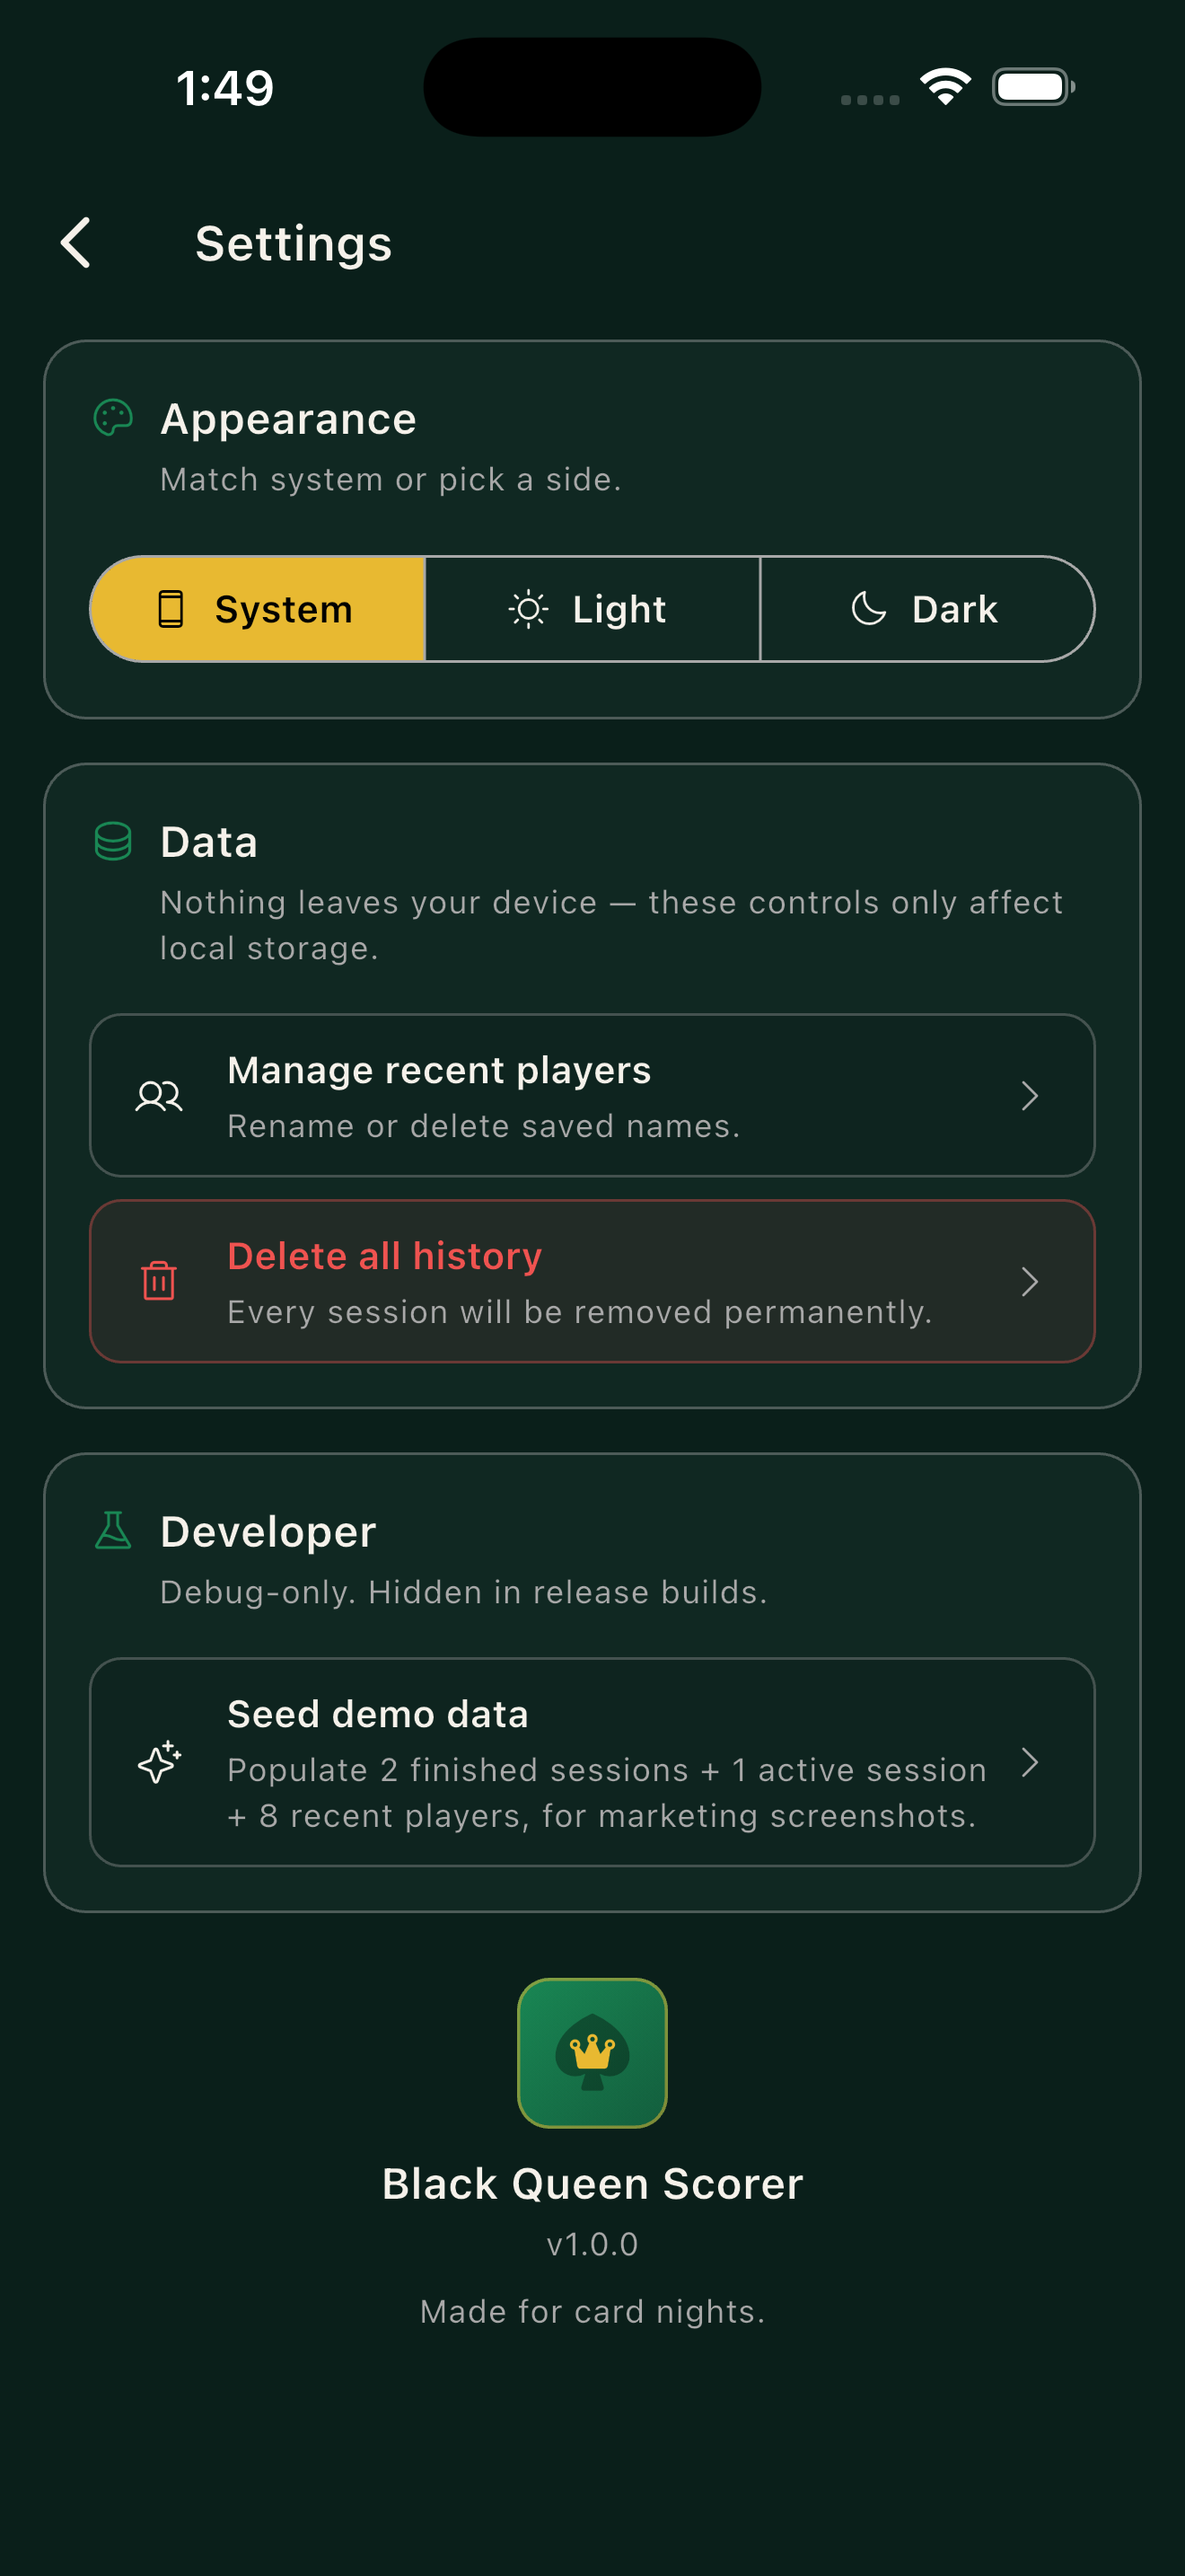
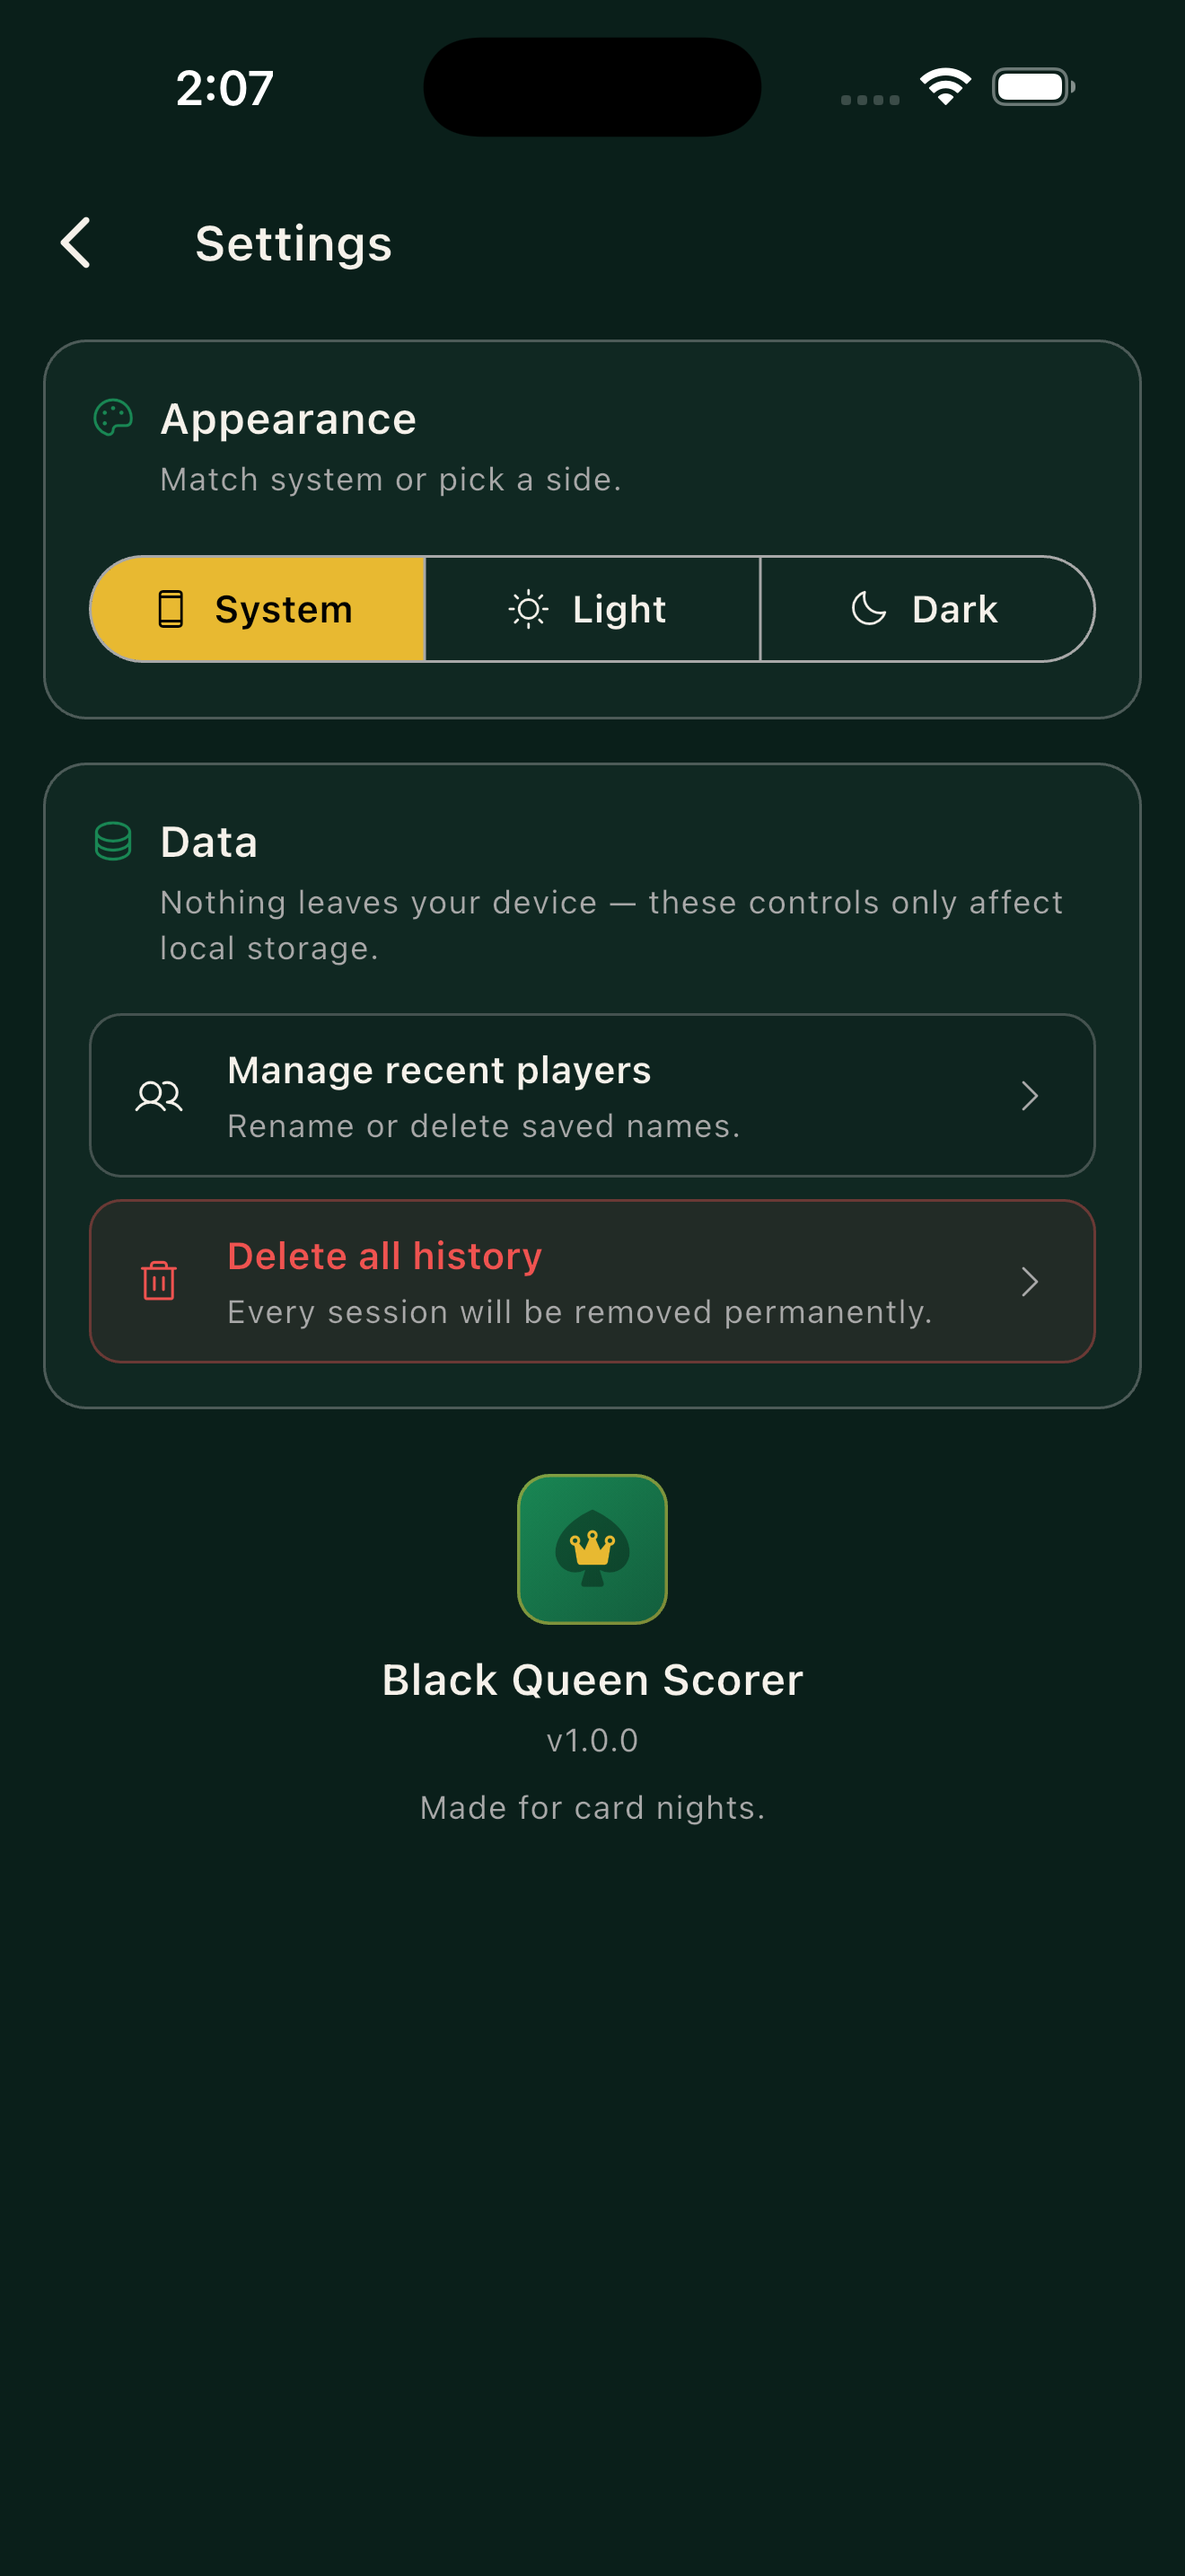
Add marketing-framed screenshots + rebuild Settings clean
- tool/frame_screenshots_test.dart: programmatic framer that reads raw
  simulator PNGs, paints them onto an emerald-gradient canvas with a
  two-line gold/white caption above and a wordmark footer. Loads the
  macOS system TTF (SFNS.ttf) so captions render outside the Ahem-font
  default of flutter_test.

- lib/features/settings/settings_screen.dart: the Developer card's
  visibility check now also respects a MARKETING dart-define flag so
  we can produce a clean Settings screenshot from a debug simulator
  build (`flutter build ios --simulator --debug --dart-define=MARKETING=true`).

- store/screenshots/ios/6.9inch/raw/06_settings.png: swapped for the
  clean marketing-flag build (no Developer card).

- store/screenshots/ios/6.9inch/framed/*.png: six 1320×2868 marketing
  versions with captions:
  01 "Fast, offline / card-night scorer"
  02 "Live leaderboard, / zero spreadsheet"
  03 "Bidder, team, bid, / done — in 10 seconds"
  04 "Finish with a / podium and a share card"
  05 "See who really / owns the table"
  06 "No account. / No ads. No tracking."

diff --git a/tool/frame_screenshots_test.dart b/tool/frame_screenshots_test.dart
@@ -1,0 +1,253 @@
+// Paints branded marketing versions of the raw simulator screenshots:
+// emerald-gradient background, gold caption above, rounded-corner device
+// image centered, small footer wordmark. 1320x2868 output for App Store 6.9".
+//
+// Run with:
+//   flutter test tool/frame_screenshots_test.dart
+//
+// Inputs  : store/screenshots/ios/6.9inch/raw/<NN>_<slug>.png
+// Outputs : store/screenshots/ios/6.9inch/framed/<NN>_<slug>.png
+
+import 'dart:io';
+import 'dart:typed_data';
+import 'dart:ui' as ui;
+
+import 'package:flutter/material.dart';
+import 'package:flutter/services.dart' show FontLoader;
+import 'package:flutter_test/flutter_test.dart';
+
+const _canvas = Size(1320, 2868);
+const _emerald = Color(0xFF0F5132);
+const _emeraldDeep = Color(0xFF0A1F1A);
+const _gold = Color(0xFFE8B931);
+
+class _Shot {
+  final String slug;
+  final String captionA;
+  final String captionB;
+  const _Shot(this.slug, this.captionA, this.captionB);
+}
+
+const _shots = <_Shot>[
+  _Shot('01_home', 'Fast, offline', 'card-night scorer'),
+  _Shot('02_scoreboard', 'Live leaderboard,', 'zero spreadsheet'),
+  _Shot('03_round_entry', 'Bidder, team, bid,', 'done — in 10 seconds'),
+  _Shot('04_summary', 'Finish with a', 'podium and a share card'),
+  _Shot('05_lifetime_stats', 'See who really', 'owns the table'),
+  _Shot('06_settings', 'No account.', 'No ads. No tracking.'),
+];
+
+Future<ui.Image> _loadPng(String path) async {
+  final bytes = await File(path).readAsBytes();
+  final codec = await ui.instantiateImageCodec(bytes);
+  final frame = await codec.getNextFrame();
+  return frame.image;
+}
+
+Future<Uint8List> _render(
+  void Function(Canvas, Size) paint,
+) async {
+  final recorder = ui.PictureRecorder();
+  final canvas = Canvas(recorder);
+  paint(canvas, _canvas);
+  final picture = recorder.endRecording();
+  final image =
+      await picture.toImage(_canvas.width.toInt(), _canvas.height.toInt());
+  final data = await image.toByteData(format: ui.ImageByteFormat.png);
+  return data!.buffer.asUint8List();
+}
+
+void _paintBackground(Canvas canvas) {
+  final rect = Offset.zero & _canvas;
+  // Emerald gradient matches the in-app brand.
+  final bg = Paint()
+    ..shader = const LinearGradient(
+      begin: Alignment.topCenter,
+      end: Alignment.bottomCenter,
+      colors: [_emerald, _emeraldDeep],
+    ).createShader(rect);
+  canvas.drawRect(rect, bg);
+
+  // Subtle gold spade silhouette in the top-right for identity.
+  final spadePaint = Paint()
+    ..color = _gold.withValues(alpha: 0.07);
+  _drawSpade(
+    canvas,
+    Offset(_canvas.width - 180, 180),
+    220,
+    spadePaint,
+  );
+}
+
+void _drawSpade(Canvas canvas, Offset c, double r, Paint paint) {
+  final p = Path();
+  p.moveTo(c.dx, c.dy - r);
+  p.cubicTo(c.dx + r * 0.85, c.dy - r * 0.45, c.dx + r * 1.02,
+      c.dy + r * 0.15, c.dx + r * 0.55, c.dy + r * 0.42);
+  p.cubicTo(c.dx + r * 0.28, c.dy + r * 0.56, c.dx + r * 0.1,
+      c.dy + r * 0.52, c.dx + r * 0.08, c.dy + r * 0.4);
+  p.cubicTo(c.dx + r * 0.15, c.dy + r * 0.72, c.dx + r * 0.22,
+      c.dy + r * 0.88, c.dx + r * 0.4, c.dy + r * 0.98);
+  p.lineTo(c.dx - r * 0.4, c.dy + r * 0.98);
+  p.cubicTo(c.dx - r * 0.22, c.dy + r * 0.88, c.dx - r * 0.15,
+      c.dy + r * 0.72, c.dx - r * 0.08, c.dy + r * 0.4);
+  p.cubicTo(c.dx - r * 0.1, c.dy + r * 0.52, c.dx - r * 0.28,
+      c.dy + r * 0.56, c.dx - r * 0.55, c.dy + r * 0.42);
+  p.cubicTo(c.dx - r * 1.02, c.dy + r * 0.15, c.dx - r * 0.85,
+      c.dy - r * 0.45, c.dx, c.dy - r);
+  p.close();
+  canvas.drawPath(p, paint);
+}
+
+void _paintCaption(Canvas canvas, String lineA, String lineB) {
+  const baseStyle = TextStyle(
+    fontFamily: _fontFamily,
+    fontSize: 92,
+    height: 1.05,
+    letterSpacing: -1.2,
+    fontWeight: FontWeight.w800,
+  );
+
+  final para = (ui.ParagraphBuilder(
+    ui.ParagraphStyle(
+      textAlign: TextAlign.center,
+      fontFamily: baseStyle.fontFamily,
+      fontSize: baseStyle.fontSize,
+      height: baseStyle.height,
+      fontWeight: baseStyle.fontWeight,
+    ),
+  )
+        ..pushStyle(ui.TextStyle(
+          color: Colors.white,
+          letterSpacing: -1.2,
+          fontWeight: FontWeight.w800,
+        ))
+        ..addText('$lineA\n')
+        ..pushStyle(ui.TextStyle(
+          color: _gold,
+          letterSpacing: -1.2,
+          fontWeight: FontWeight.w800,
+        ))
+        ..addText(lineB))
+      .build()
+    ..layout(ui.ParagraphConstraints(width: _canvas.width - 120));
+
+  canvas.drawParagraph(para, const Offset(60, 140));
+}
+
+void _paintDevice(Canvas canvas, ui.Image shot) {
+  // Device image sized to 920 wide, preserving aspect ratio, centered
+  // with a 28px rounded corner.
+  const deviceWidth = 920.0;
+  final deviceHeight =
+      shot.height * (deviceWidth / shot.width);
+  final left = (_canvas.width - deviceWidth) / 2;
+  const top = 540.0;
+  final rect = Rect.fromLTWH(left, top, deviceWidth, deviceHeight);
+  final rrect = RRect.fromRectAndRadius(rect, const Radius.circular(48));
+
+  // Drop shadow beneath device.
+  final shadowRect = rect.translate(0, 18).inflate(6);
+  final shadowRRect =
+      RRect.fromRectAndRadius(shadowRect, const Radius.circular(48));
+  canvas.drawRRect(
+    shadowRRect,
+    Paint()
+      ..color = Colors.black.withValues(alpha: 0.45)
+      ..maskFilter = const MaskFilter.blur(BlurStyle.normal, 40),
+  );
+
+  // Clip + paint the screenshot into the rounded rect.
+  canvas.save();
+  canvas.clipRRect(rrect);
+  paintImage(
+    canvas: canvas,
+    rect: rect,
+    image: shot,
+    fit: BoxFit.cover,
+  );
+  canvas.restore();
+
+  // Gold hairline border.
+  canvas.drawRRect(
+    rrect,
+    Paint()
+      ..style = PaintingStyle.stroke
+      ..strokeWidth = 3
+      ..color = _gold.withValues(alpha: 0.35),
+  );
+}
+
+void _paintWordmark(Canvas canvas) {
+  final pb = ui.ParagraphBuilder(ui.ParagraphStyle(
+    textAlign: TextAlign.center,
+    fontFamily: _fontFamily,
+    fontSize: 36,
+    fontWeight: FontWeight.w700,
+  ))
+    ..pushStyle(ui.TextStyle(color: Colors.white.withValues(alpha: 0.7)))
+    ..addText('Black Queen Scorer');
+  final para = pb.build()
+    ..layout(ui.ParagraphConstraints(width: _canvas.width));
+  canvas.drawParagraph(
+      para, Offset(0, _canvas.height - 110 - para.height / 2));
+}
+
+const _fontFamily = 'FramerSans';
+
+Future<void> _loadFont() async {
+  // flutter_test uses Ahem by default (all glyphs render as boxes). Load a
+  // real TTF from the host macOS so captions render correctly.
+  const candidates = [
+    '/System/Library/Fonts/SFNS.ttf',
+    '/System/Library/Fonts/Supplemental/Arial Bold.ttf',
+    '/System/Library/Fonts/Helvetica.ttc',
+  ];
+  for (final path in candidates) {
+    final file = File(path);
+    if (!await file.exists()) continue;
+    final bytes = await file.readAsBytes();
+    final loader = FontLoader(_fontFamily)
+      ..addFont(Future.value(ByteData.view(bytes.buffer)));
+    await loader.load();
+    // ignore: avoid_print
+    print('Loaded font from $path');
+    return;
+  }
+  throw StateError('No usable TTF found on host');
+}
+
+void main() {
+  testWidgets('frame all marketing screenshots', (tester) async {
+    await tester.runAsync(() async {
+      await _loadFont();
+      const rawDir = 'store/screenshots/ios/6.9inch/raw';
+      const outDir = 'store/screenshots/ios/6.9inch/framed';
+
+      // Ensure output dir exists.
+      await Directory(outDir).create(recursive: true);
+
+      for (final shot in _shots) {
+        final rawPath = '$rawDir/${shot.slug}.png';
+        if (!await File(rawPath).exists()) {
+          // ignore: avoid_print
+          print('SKIP missing raw: $rawPath');
+          continue;
+        }
+        final image = await _loadPng(rawPath);
+
+        final bytes = await _render((canvas, size) {
+          _paintBackground(canvas);
+          _paintCaption(canvas, shot.captionA, shot.captionB);
+          _paintDevice(canvas, image);
+          _paintWordmark(canvas);
+        });
+
+        final outPath = '$outDir/${shot.slug}.png';
+        await File(outPath).writeAsBytes(bytes);
+        // ignore: avoid_print
+        print('✓ $outPath (${bytes.length} bytes)');
+      }
+    });
+  });
+}

diff --git a/lib/features/settings/settings_screen.dart b/lib/features/settings/settings_screen.dart
@@ -97,7 +97,9 @@ class SettingsScreen extends ConsumerWidget {
                 ],
               ),
             ),
-            if (kDebugMode) ...[
+            if (kDebugMode &&
+                !const bool.fromEnvironment('MARKETING',
+                    defaultValue: false)) ...[
               const SizedBox(height: Spacing.md),
               _SettingsCard(
                 icon: PhosphorIconsRegular.flask,
